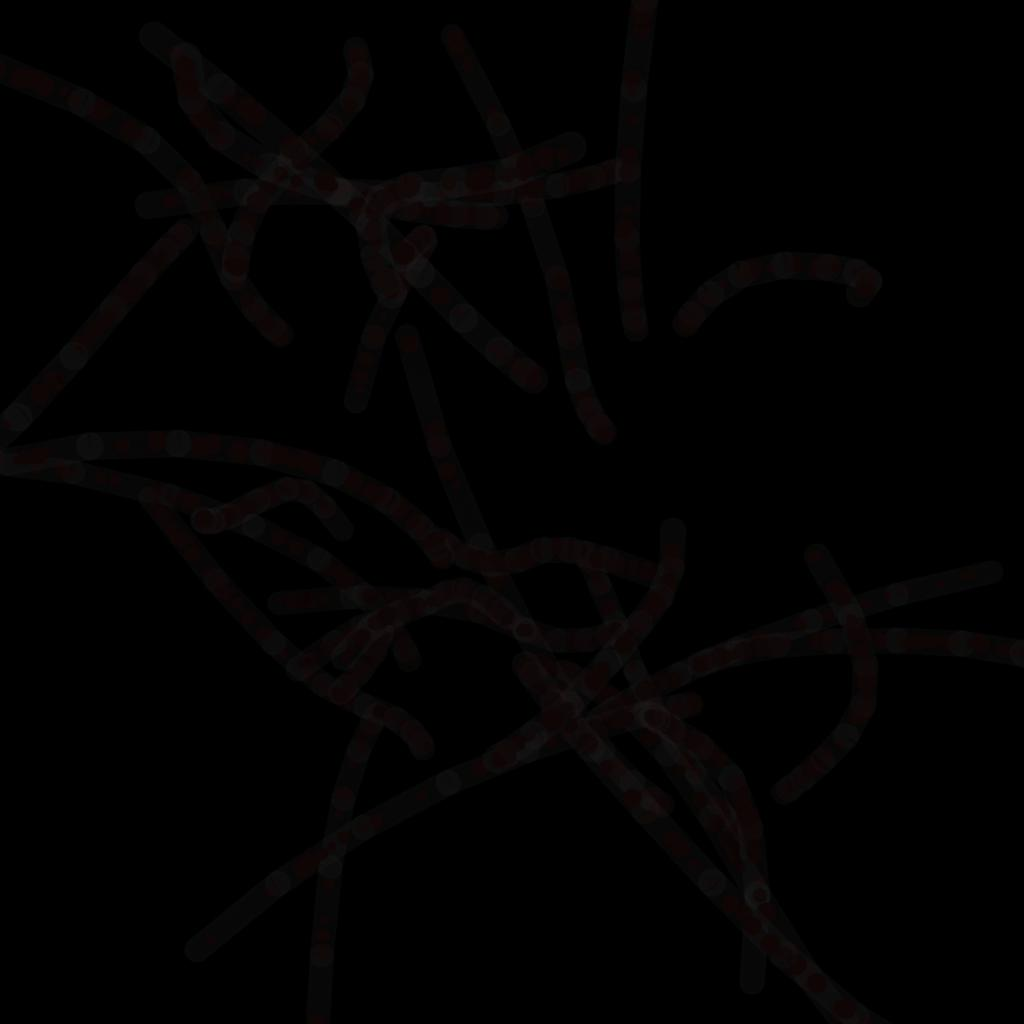
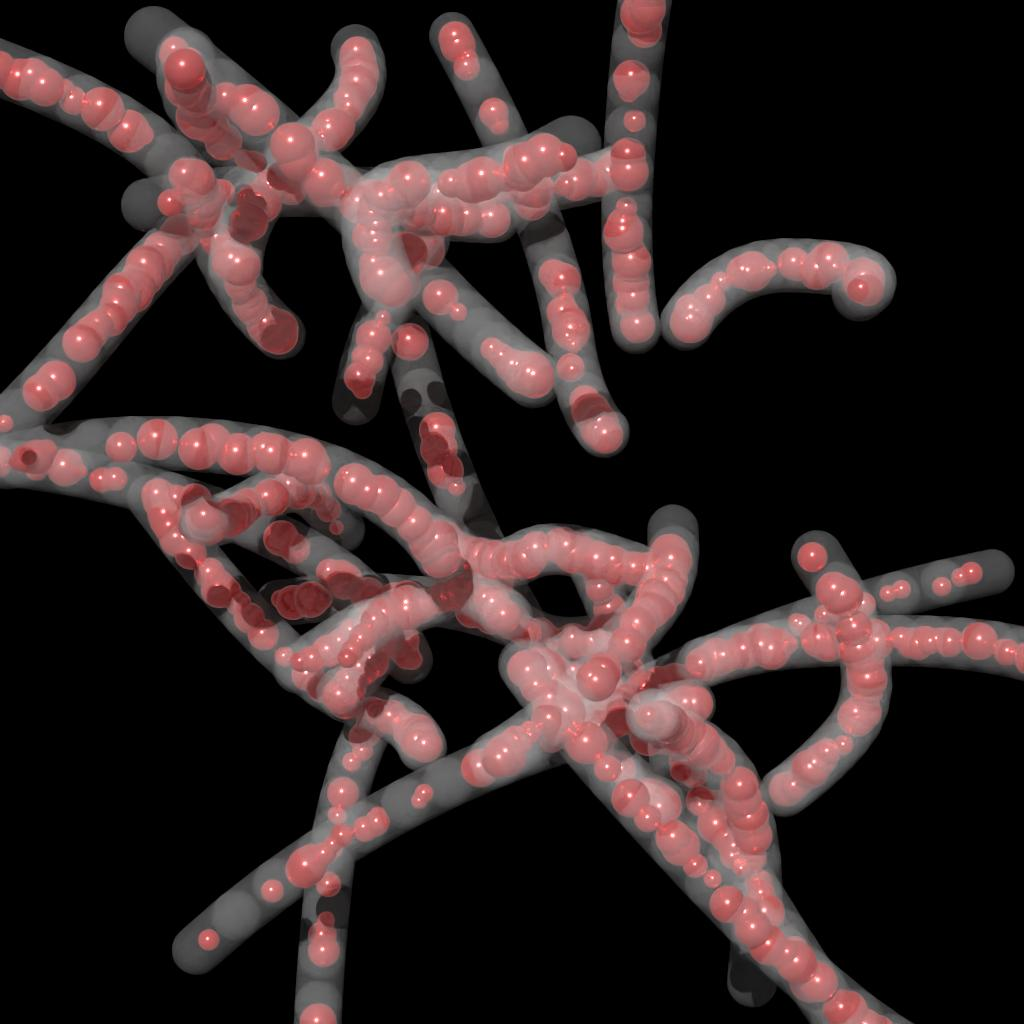
sample7 passes opacity as 'opacity' paramter, now baseColor.w

diff --git a/sample07.py b/sample07.py
@@ -19,6 +19,7 @@ random.seed(80577)
 
 # radius to use for emitted curves:
 curve_radius = .02
+curve_radius = .04
 
 
 # the linear line segments representing the curves, in python arrays
@@ -76,7 +77,7 @@ def random_sphere(r):
 # four 4D control points (with x,y,z, and radius each)
 # two colors (for start and end)
 def emit_tubes(cp0, cp1, cp2, cp3):
-    n_segs = 4
+    n_segs = 8
     global curves_primitive_index
     global curves_vertex_position
     for i in range(n_segs):
@@ -139,8 +140,8 @@ def make_spheres_material():
 
 def make_curves_material():
     mat = device.newMaterial('physicallyBased')
-    #mat.setParameter('baseColor',anari.float3,(.5,.5,.5))
-    mat.setParameter('baseColor',anari.float4,(.5,.5,.5,.1))
+    #mat.setParameter('baseColor',anari.float4,(.5,.5,.5,.2))
+    mat.setParameter('baseColor',anari.float3,(.5,.5,.5))
     mat.setParameter('ior',anari.FLOAT32,1.)
     mat.setParameter('metallic',anari.FLOAT32,0.)
     mat.setParameter('opacity',anari.FLOAT32,0.1)
